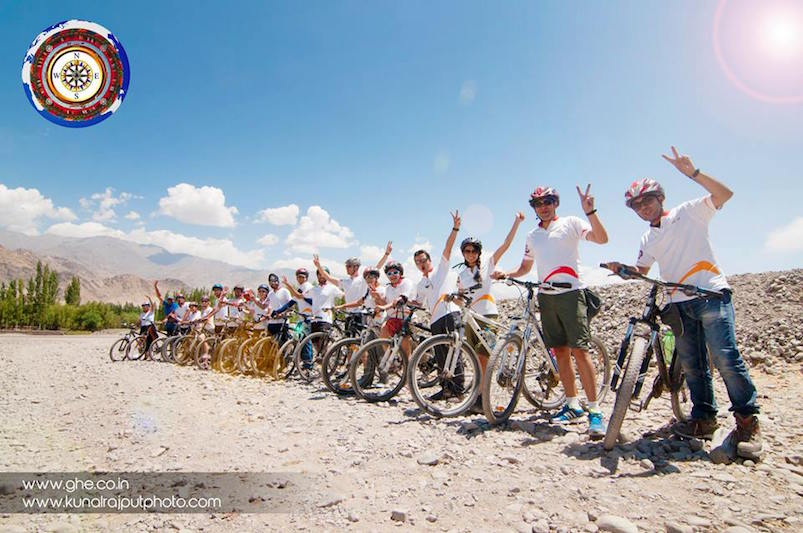
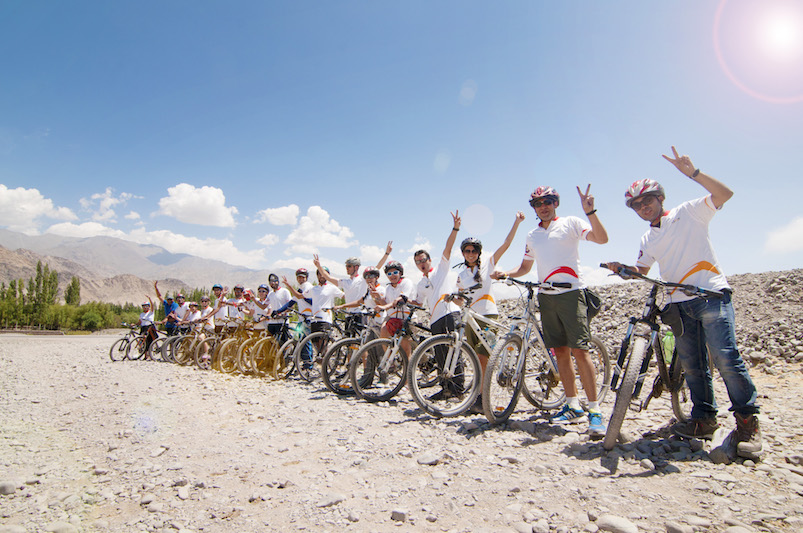
wrap up

diff --git a/impact.html b/impact.html
@@ -7,20 +7,14 @@
     include "header.html"
     <div class="ui main stackable grid">
         <div class="ui one column row">
-            <div class="twelve wide column centered">
+            <div class="sixteen wide column centered">
                 <h2 class="ui header centered" id="ebase">Third Pole Education Base</h2>
                 <div class="ui card very big">
                     <div class="image">
                         <img src="images/impact/ebase.jpg">
                     </div>
                     <div class="content">
-                        <div class="description">
-                            The Third Pole E-Base, setup in Ladakh, is the 3rd such E-Base in the world. Setup in a region which has experienced grave consequences of climate change, like the Cloud Burst in 2010 and receding glaciers which are cutting away water sources, the E-Base is meant to be a model of sustainability while also being a portal for the kids from the region to connect to the outside world. The E-Base is constructed completely out of renewable material, using a technique called ‘Rammed Earth’, and is powered entirely by solar panels.
-
-                            <br>
-                            
-                            The E-Base is located in the Mahabodhi complex in Leh, right next to the Mahabodhi School. It houses a digital library of documentaries and interactive learning tools and is capable of connecting to other institutions around the world through video conferencing. In addition to this, there are multiple tablets available, which the students can use to research about new concepts. The idea is to make learning a more engaging and enriching experience, while empowering the students of this region with tools which are now commonplace in other urban communities.
-                        </div>
+                        <div class="description"> The Third Pole Educational Base (E-Base), setup in Ladakh, is a one of its kind social impact initiative which marries the twin objectives of quality education disbursement and creation of awareness on sustainable practices. Setup in a region which has been experiencing the grave consequences of climate change- the Cloud Burst floods in 2010 and receding glaciers which are cutting away water sources - the E-Base is meant to be a model of sustainability while also being a portal for the children from the region to connect with the outside world. The E-Base is constructed completely out of renewable material, using a technique called ‘Rammed Earth’, and is powered entirely by solar panels. <br><br> The E-Base is located in the Mahabodhi complex in Leh, right next to the Mahabodhi Residential School which is home to students from some of the remotest corners of the Himalayas. The E-Base houses a robotics lab, digital library of documentaries, interactive learning tools, star gazing kit and is capable of connecting to other institutions around the world through video conferencing. <br><br> In less than two years since it was setup (in August 2013), the E-Base has seen a flurry of activities which have redefined the education scene in Leh. The E-Base has a strategic partnership with Ashley School in the UK, and the students have benefitted from frequent group Skype sessions with their peers on the other side of the globe. Richard Dunne, the principal of Ashley School and an acclaimed educator, visited the E-Base and conducted training sessions for the teachers on modern educational practices. The E- Base got an enthusiastic fellow in Neha Singh last year, as part of the E-Base Fellowship program. Neha stayed in the school and over a period of 4 months initiated both the children and the teachers into a new model of interactive and activity based learning. Neha’s efforts and the children’s enthusiasm translated into the E-Base winning the National Design for Change challenge in 2014 for their ingenious approach to waste management in the school. The E-Base has also been a venue for career counseling sessions for the children organized by Yuvshaala. There are many more interesting events lined up at the E-Base this year. Please follow the <a href="https://www.facebook.com/eBaseLadakh">E-Base Facebook page</a> here for instant updates. </div>
                     </div>
                 </div>
             </div>
@@ -40,8 +34,10 @@
 
         <div class="ui one column row">
             <div class="ui divider"></div>
+            <div class="ui hidden divider"></div>
+            <div class="ui hidden divider"></div>
 
-            <div class="twelve wide column centered">
+            <div class="sixteen wide column centered">
                 <h2 class="ui header centered" id="village">Himalayan Village Electrification</h2>
                 <div class="ui card very big">
                     <div class="image">
@@ -49,12 +45,22 @@
                     </div>
                     <div class="content">
                         <div class="description">
-                            Most of the villages in the Himalayas are yet to encounter their first wave of electrification. During our journey this year, we would be taking our first steps to make a difference in this regard. The GHE team would set-up a micro-grid in one of the remote villages of the region, powered exclusively by solar energy. The houses in this village would be equipped with basic lighting infrastructure, and charging provisions for small appliances.
-                            The introduction of even a limited source of electrical power can have immediate and significant economic, educational, and health benefits —by providing high-quality, non-polluting lighting; something which has been a commodity in the rest of the world for more than a decade now, but still is a luxury in these regions. Better illumination provides more opportunities for income generation; the villagers can now work during the evening/nights, and engage in activities such as traditional handicrafts, and wool weaving to supplement household income.
-                            We see this as a first step towards electrifying many more such villages and would be undertaking this project with the technical support of one of the nodal renewable energy agencies of Ladakh.
+                            As part of our GHE 2013 trek route we stayed one night in a remote village in the Zanskar valley called Sumda Chenmo. The village is a 3 day trek from the nearest signposts of civilization, and as the sun set over the mountains that evening the whole village was bathed in darkness. Being in a remote and harsh terrain, the village had no hope of ever being connected to a conventional electric grid. <br><br> That night in August 2013 we gifted the villagers of Sumda Chenmo with solar lanterns as a mark of our respect for their hospitality. As the solar lanterns lit up the night, the happiness in the faces of the villagers was palpable. That made us decide to come back here again the next year with a more permanent cure for the darkness – their own independent self-sustaining micro-grid.<br><br> When we reached Sumda Chenmo again in August 2014, we had carried alongwith us on the trek all the raw material required to setup the micro-grid – solar panels on horseback, LED bulbs, wiring, sockets, batteries, inverters and lot of nails and hammers. The whole micro-grid was setup in a day by the GHE participants, with help from the enthusiastic villagers. The sunset on August 18th was a special one for the village, as it was accompanied by 121 light bulbs going on across the village, as the micro-grid became operational. Now, even after half an year from that date, the grid continues to power the lives and dreams of the villagers.<br><br> Some of the benefits the grid has brought in are: <ul> <li>The microgrid completely eliminated usage of 1600 litres of kerosene (amounting to around 4000kgs of CO2) from the entire village.</li> <li>It extended the working hours of the villagers by 4hrs/day, where major occupation is brass and copper work and local handicrafts.</li> <li>It helped the villagers escape poisonous fumes generated through use of oil lamps used for lighting.</li> <li>Increased income generation by making the village a more attractive destination for home stays. Now trekkers passing through the village prefer to stay in the village homes that provide them with light and charging facilities.</li> <li>The grid also supports a DC LED television (TV), specially designed for this project, that brings the community together for special screening of movies based on social issues.</li> There is more planned for Sumda Chenmo this year, and we would keep you updated about it on our <a href="https://www.facebook.com/GlobalHimalayanExpedition">Facebook page</a>. </ul>
                         </div>
                     </div>
                 </div>
+            </div>
+        </div>
+
+        <div class="three column row">
+            <div class="column">
+                <img src="./images/impact/village1.jpg">
+            </div>
+            <div class="column">
+                <img src="./images/impact/village2.jpg">
+            </div>
+            <div class="column">
+                <img src="./images/impact/village3.jpg">
             </div>
         </div>
     </div>

diff --git a/2015.html b/2015.html
@@ -5,22 +5,23 @@
 </head>
 <body>
     include "header.html"
-    <div class="ui main grid">
-        <h2 class="ui header centered">GHE 2015</h2>
-        <div class="ui sixteen column row">
-            <a class="centered ten wide column" href="./join.html">
-                <img class="massive" src="images/2015/banner2015.jpg">
-            </a>
-            <div class="centered ten wide column">
-                <p>Every great journey eventually comes to an end, but not before paving way for an even better one the next time.
-                    <br><br>
-                    GHE 2014 was an amazing, one of its kind, expedition. GHE 2015 promises to be even better. Spread over 11 days, packed with all kinds of action, from setting-up a micro-grid in a Himalayan village, to trekking, cycling and rafting in the mountains, to camping in some of the most picturesque locations in the world, the trip promises all of what made GHE 2014 a big success, plus more.
-                    <br><br>
-                    The itinerary would include first couple of days of acclimatization in Leh, when we would also visit the current E-Base in Leh, and help out with further improvements. Then we would be camping by Pangong Tso lake for a day, before setting off on the adventure part of the trip. This would begin with a day of cycling, followed by 4 days of trekking and one day of rafting. While out on our journey, we would also setup a micro-grid in a village, thus gifting them with year-long sustainable electricity. We would finish the trip with a visit to the Khardungla pass, after which we would attend the TEDx event happening in Leh.
-                    <br><br>
-                    For day-wise itinerary and trip essentials, please download the attached document.</p>
+
+    <div class="ui main stackable grid">
+        <div class="ui one column row">
+            <div class="sixteen wide column centered">
+                <h2 class="ui header centered">GHE 2015</h2>
+                <div class="ui card very big" href="./join.html">
+                    <div class="image">
+                        <img src="images/2015/banner2015.jpg">
+                    </div>
+                    <div class="content">
+                        <div class="description">
+                            <p>Every great journey eventually comes to an end, but not before paving way for an even better one the next time. <br><br> GHE 2014 was an amazing, one of its kind, expedition. GHE 2015 promises to be even better. Spread over 11 days, packed with all kinds of action, from setting-up a micro-grid in a Himalayan village, to trekking, cycling and rafting in the mountains, to camping in some of the most picturesque locations in the world, the trip promises all of what made GHE 2014 a big success, plus more. <br><br> The itinerary would include first couple of days of acclimatization in Leh, when we would also visit the current E-Base in Leh, and help out with further improvements. Then we would be camping by Pangong Tso lake for a day, before setting off on the adventure part of the trip. This would begin with a day of cycling, followed by 4 days of trekking and one day of rafting. While out on our journey, we would also setup a micro-grid in a village, thus gifting them with year-long sustainable electricity. We would finish the trip with a visit to the Khardungla pass, after which we would attend the TEDx event happening in Leh. <br><br> For day-wise itinerary and trip essentials, please download the attached document.</p> 
+                        </div>
+                    </div>
                 </div>
             </div>
+        </div>
     </div>
 
     <div class="ui divider"></div>

diff --git a/partials/header.html b/partials/header.html
@@ -1,6 +1,6 @@
 <div class="ui grid">
     <div class="computer tablet only row">
-        <div id="bigNavbar" class="ui fixed menu navbar page grid">              
+        <div id="bigNavbar" class="ui fixed menu navbar page grid">
             <a class="item" href="./index.html">Home</a>
             <a class="item" href="./join.html">Join Us - GHE 2015</a>
 
@@ -30,17 +30,20 @@
                 </div>
             </div>
 
+            <a class="item" href="#" id="contactMenuItem">Contact</a>
+
             <div class="right menu">
                 <a class="item" target="_blank" href="https://www.facebook.com/GlobalHimalayanExpedition"><em class="icon-facebook"></em></a>
                 <a class="item" target="_blank" href="https://twitter.com/ghe_connect"><em class="icon-twitter"></em></a>
                 <a class="item" href="mailto:info@ghe.co.in"><em class="icon-envelope"></em> info@ghe.co.in</a>
+                <a class="item" href="tel:+919910089129"><em class="icon-phone"></em> +91 991 008 9129</a>
             </div>
 
         </div>
     </div>
-    <div class="mobile only row">
+    <div class="mobile only row"> 
         <div class="ui fixed inverted navbar menu">
-            <a href="" class="brand item">GHE</a>
+            <a href="./index.html" class="brand item" id="mobileLogoBox"><img id="mobileLogo" src="./images/logoweb.png"/></a>
             <div class="right menu open">
                 <a href="" class="menu item">
                     <em class="icon-reorder"></em>
@@ -85,7 +88,32 @@
                 <div class="item">
                     <a href="mailto:info@ghe.co.in">Mail <em class="icon-envelope"></em> info@ghe.co.in</a>
                 </div>
+                <div class="item">
+                    <a href="tel:+919910089129">Phone <em class="icon-phone"></em> +91 991 008 9129</a>
+                </div>
             </div>
+        </div>
+    </div>
+</div>
+
+<!-- This is the modal for contact information-->
+<div id="contactModal" class="ui basic modal">
+    <i class="close icon"></i>
+    <div class="header">
+        Contact us
+    </div>
+    <div class="content">
+        <div class="ui large label">
+            <a target="_blank" href="https://www.facebook.com/GlobalHimalayanExpedition">Facebook <em class="icon-facebook"></em></a>
+        </div>
+        <div class="ui large label">
+            <a target="_blank" href="https://twitter.com/ghe_connect">Twitter <em class="icon-twitter"></em></a>
+        </div>
+        <div class="ui large label">
+            <a href="mailto:info@ghe.co.in">Mail <em class="icon-envelope"></em> info@ghe.co.in</a>
+        </div>
+        <div class="ui large label">
+            <a href="">Phone <em class="icon-phone"></em> +91 991 008 9129</a>
         </div>
     </div>
 </div>

diff --git a/css/style.css b/css/style.css
@@ -1,9 +1,4 @@
 /*Semantic UI Patching*/
-*{
-    margin: 0;
-    padding: 0;
-}
-
 body{
     font-family: 'Open Sans', sans-serif;
     margin-bottom: 60px;
@@ -33,17 +28,13 @@ body{
 
 @media (max-width: 767px) {
     .ui.grid.main{
-        margin-top: 70px;
+        margin-top: 130px;
     }
     .ui.vertical.menu.navbar{
-        margin-top: 35px !important;
-    }
-
-    .ui.page {
+        margin-top: 45px !important;
         height: 100%;
-        display: flex;
-        flex-direction: column;
-        justify-content: space-around;
+        overflow: scroll;
+        padding-bottom: 45px !important;
     }
 }
 
@@ -57,6 +48,10 @@ body{
     margin: 1em auto;
     box-shadow: none;
     height:300px;
+}
+
+.ui.card>.content{
+    padding: 1.2em;
 }
 
 .ui.card.social{
@@ -137,6 +132,15 @@ body{
 #bigNavbar{
     padding-left: 2%;
     padding-right: 2%;
+}
+
+#mobileLogoBox{
+    padding: 5px;
+    background: transparent;
+}
+
+#mobileLogo{
+    height: 35px;
 }
 
 /*Page Title Box

diff --git a/index.html b/index.html
@@ -74,10 +74,10 @@
                 </div>
 
                 <div class="column">
-                    <h2 class="ui header centered">Himalayan Rural Electrification</h2>
+                    <h2 class="ui header centered">Himalayan Village Electrification</h2>
                     <div class="ui card normal">
                         <div class="image">
-                            <img src="./images/home/initiatives/chj.jpg">
+                            <img src="./images/home/initiatives/sumda.jpg">
                         </div>
                         <div class="content">
                             <div class="description">

diff --git a/Gruntfile.js b/Gruntfile.js
@@ -40,8 +40,12 @@ module.exports = function(grunt) {
     },
 
     imagemin: {                          // Task
-      dynamic: {                         // Another target
-        files: [{
+      dynamic: {
+        options: {                       // Target options
+          optimizationLevel: 7,
+          progressive: true
+      },                         // Another target
+      files: [{
           expand: true,                  // Enable dynamic expansion
           cwd: 'images/',                   // Src matches are relative to this path
           src: ['**/*.{png,jpg,jpeg,JPG}'],   // Actual patterns to match

diff --git a/2013.html b/2013.html
@@ -183,7 +183,7 @@
                 <div class="column">
                     <div class="ui card big">
                         <div class="image smallCarousal">
-                            <img class="content" src="images/2013/gallery/day11.jpg"/>
+                            <img class="content" src="images/2013/gallery/day11.JPG"/>
                             <img class="content" src="images/2013/gallery/day11-1.jpg"/>
                         </div>
                         <div class="content">

diff --git a/js/script.js b/js/script.js
@@ -1,13 +1,17 @@
 $(document).ready(function(){
+  $('.ui.modal').modal();
   $('.ui.dropdown').dropdown();
 
-  $(".ui.card.normal .description").dotdotdot({
-
-  });
+  $(".ui.card.normal .description").dotdotdot({});
 
   $('.right.menu.open').on("click",function(e){
-        e.preventDefault();
+    e.preventDefault();
     $('.ui.vertical.menu').toggle();
+  });
+
+  $("#contactMenuItem").click(function(e){
+    e.preventDefault();
+    $("#contactModal").modal('show');
   });
 
 
